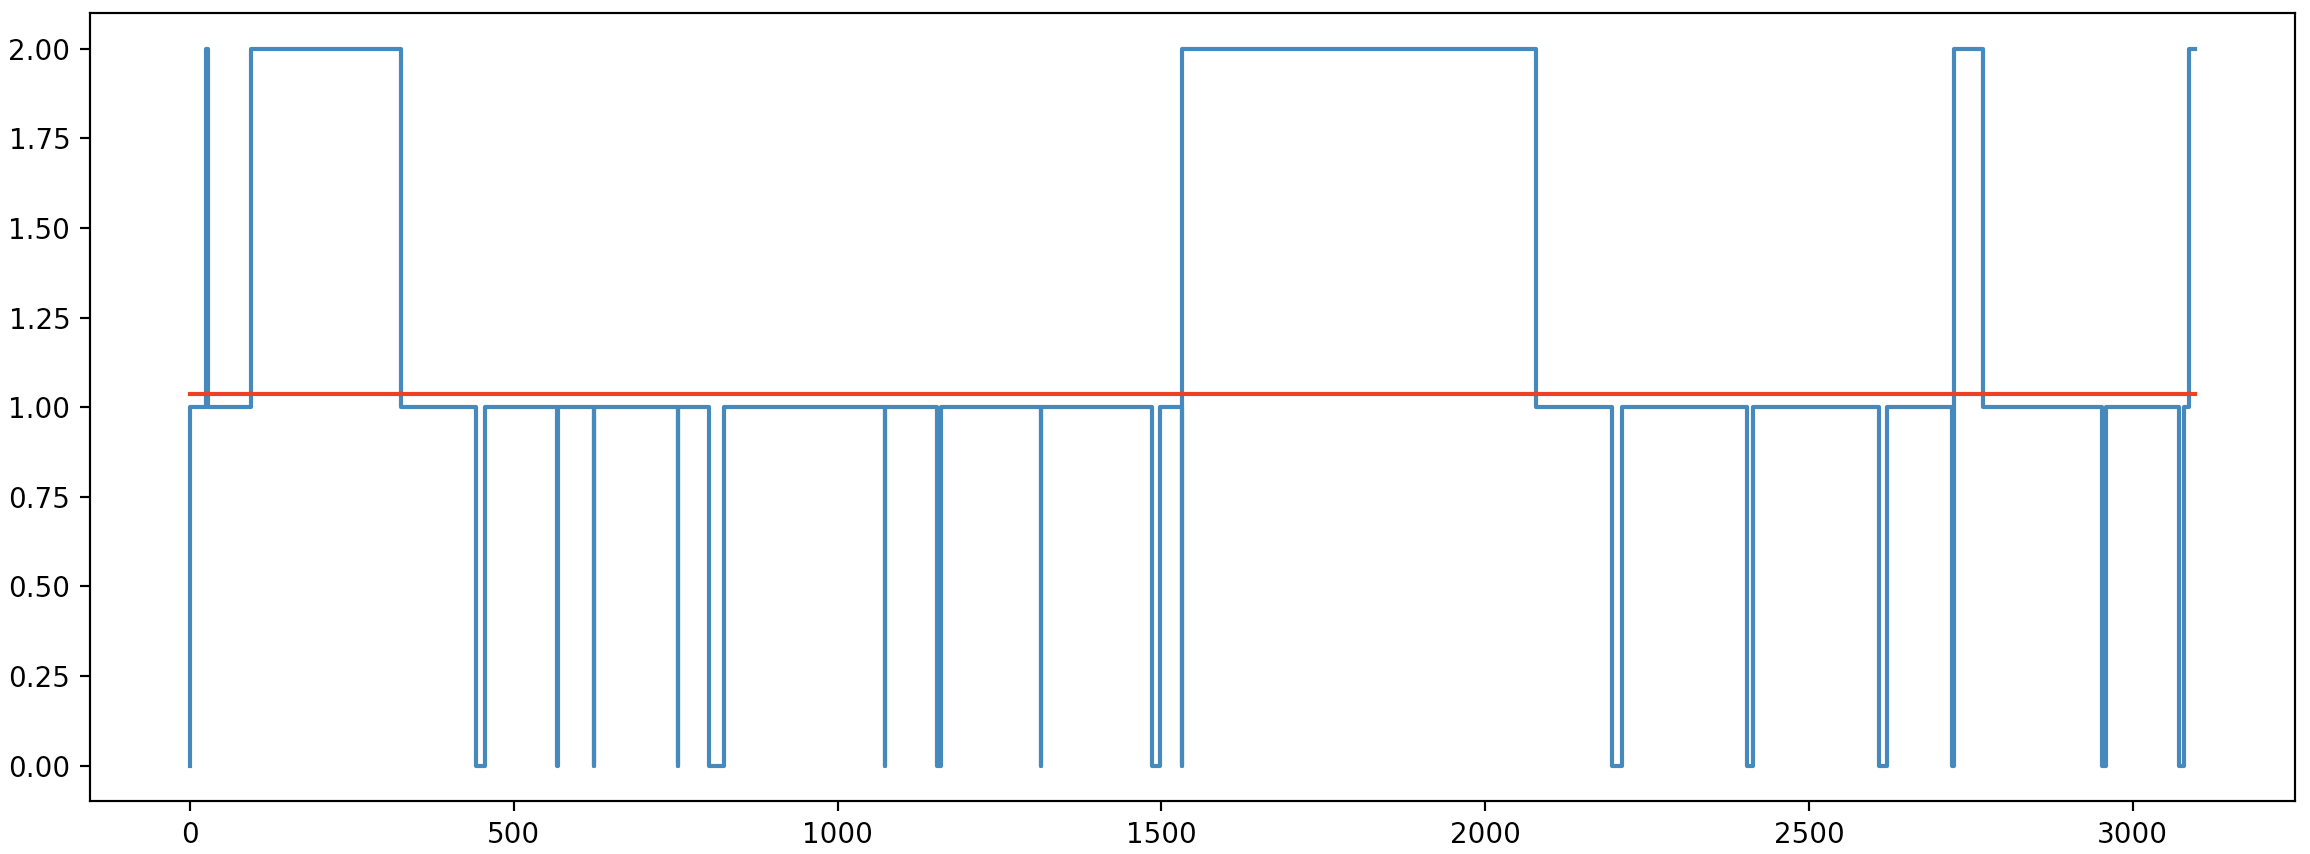
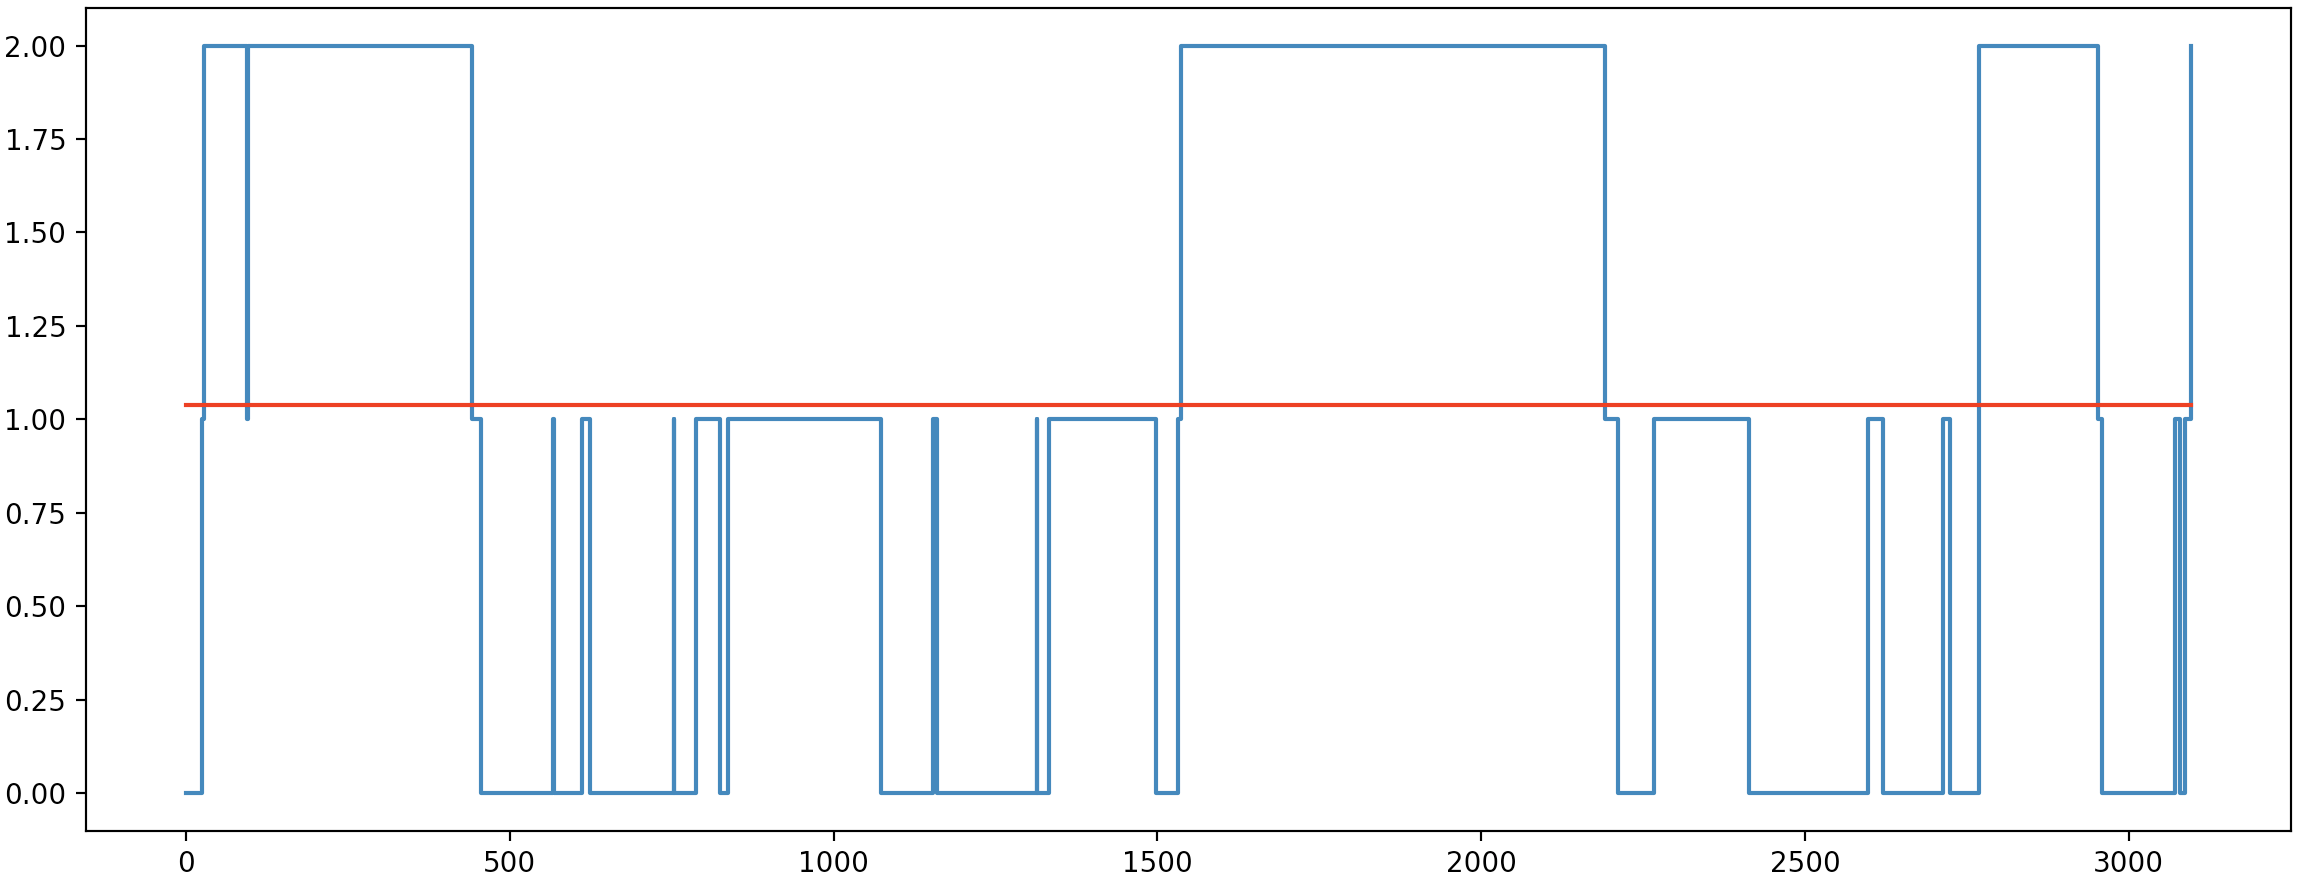
Correct the diagram

diff --git a/Part 3/Project.py b/Part 3/Project.py
@@ -132,6 +132,24 @@ class Workstation3:
         """If the work station can work now"""
         return self.buffer["C1"] > 0 and self.buffer["C3"] > 0
 
+def queue_diagram(Buffer, name):
+    res = [buffer for buffer in Buffer if buffer[-1] == name]
+
+    res.sort()
+    x = [a[0] for a in res]
+    y = [a[1] for a in res]
+
+    total = 0
+    for i in range(len(x)-1):
+        total+=(x[i+1]-x[i])*y[i]
+
+    average = [total/x[-1] for _ in range(len(x))]
+
+    plt.step(x, y, where='post')
+    plt.plot(x, average, 'r')
+    print(len(res))
+    plt.show()
+
 
 if __name__ == '__main__':
     World_time = 0
@@ -197,20 +215,6 @@ if __name__ == '__main__':
                 event[1].idle_time += World_time - event[1].start_idle
 
     print(World_time, W1.number, W2.number, W3.number, W1.idle_time, W2.idle_time, W3.idle_time)
+    queue_diagram(Buffer, 'W1_C1')
 
-    res = [buffer for buffer in Buffer if buffer[-1] == 'W3_C1']
 
-    res.sort()
-    x = [a[0] for a in res]
-    y = [a[1] for a in res]
-
-    total = 0
-    for i in range(len(x)-1):
-        total+=(x[i+1]-x[i])*y[i]
-
-    average = [total/x[-1] for _ in range(len(x))]
-
-    plt.step(x, y, where='post')
-    plt.plot(x, average, 'r')
-    print(len(res))
-    plt.show()
